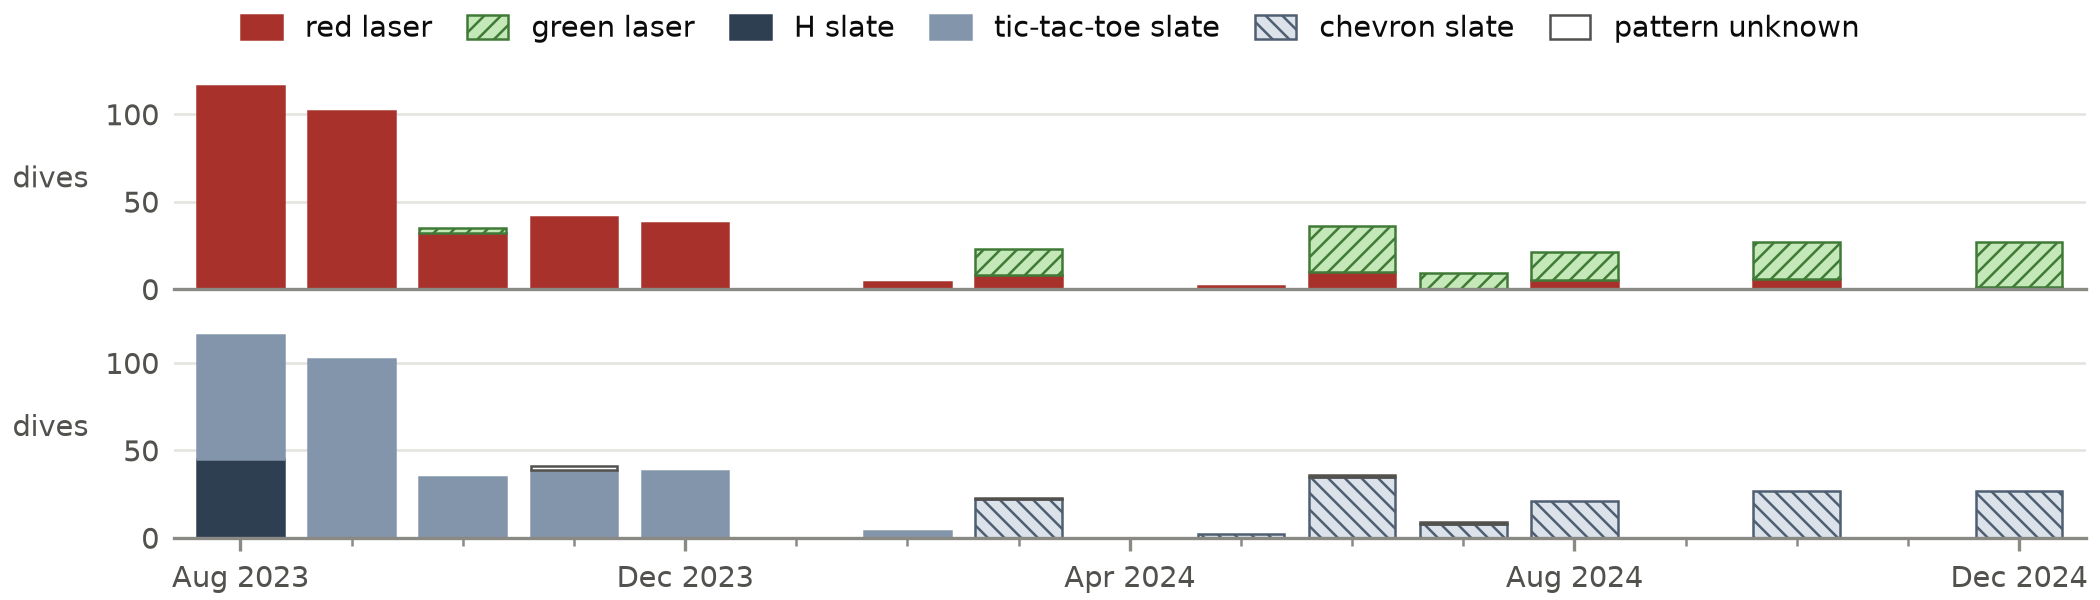
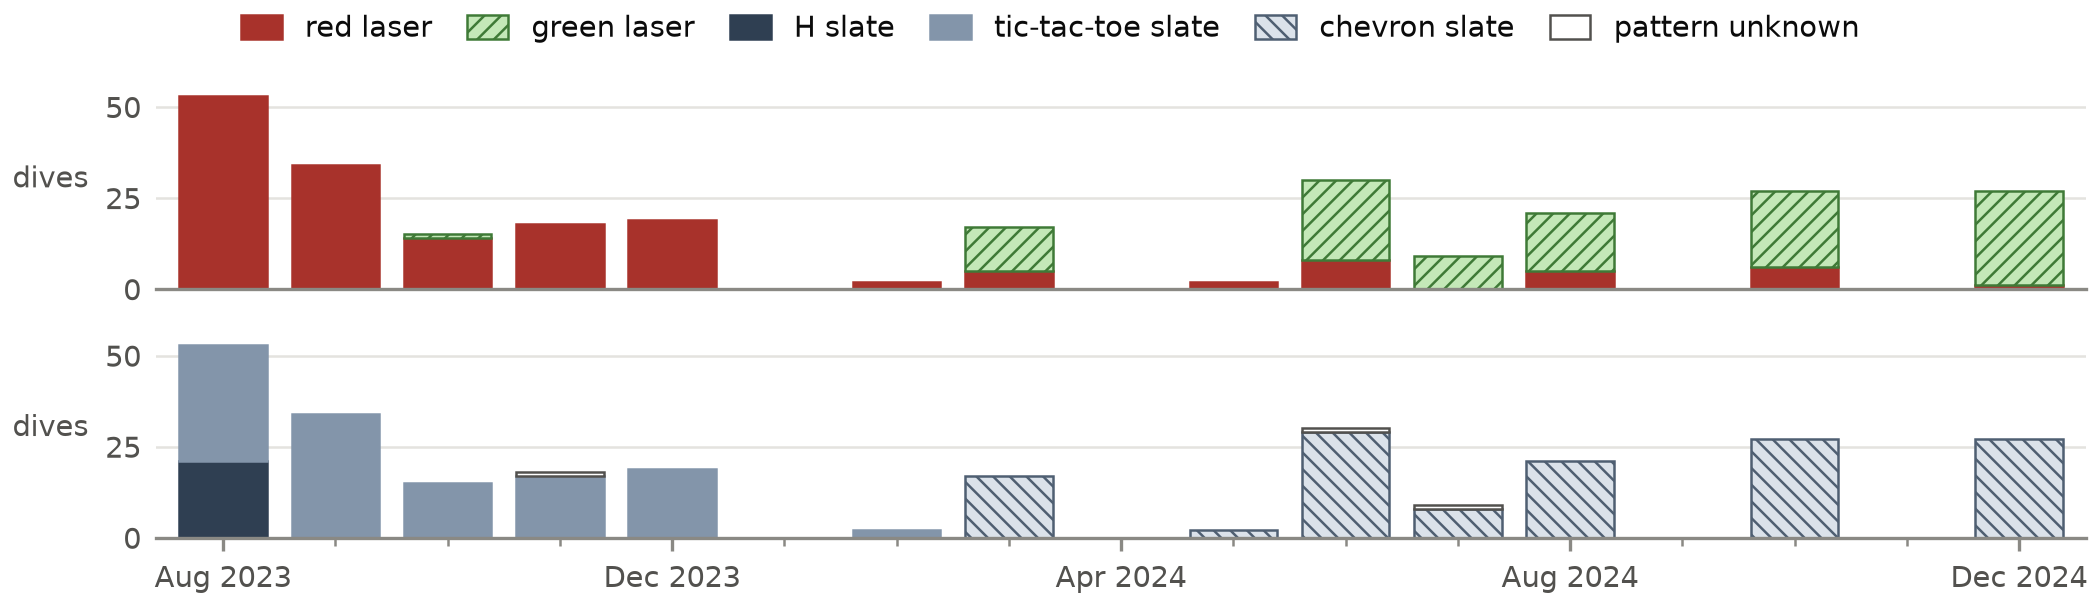
timeline: count each physical dive once (drop 207 re-imported records)
Records holding no canonical image are re-imports of the same card from a
later data dump: every image is a byte-identical copy of a canonical image
in another record. They still carry values to and from their sources, then
are dropped: 274 dives (red 167, green 107; H 21, tic-tac-toe 119,
chevron 131, unknown 3). Figure y-axis rescaled to 0..60.

diff --git a/analysis/codesign/fig_timeline.py b/analysis/codesign/fig_timeline.py
@@ -5,7 +5,8 @@ each month's bar has the same height in both panels and only the split differs.
   top     dives per month by laser color, red or green.
   bottom  dives per month by slate pattern: H, tic-tac-toe, chevron, or pattern unknown (outline only).
 Per dive (date, laser color, slate pattern, each with its source): analysis/codesign/timeline_dives.py, which
-documents every rule; 481 dives, the pool and test deployments excluded (the author, 2026-10-27). Laser color is
+documents every rule; 274 dives, each counted once (re-imported records dropped), the pool and test
+deployments excluded (the author, 2026-10-27). Laser color is
 from the dive's labels where it has them, else FishSense laser_colors (for 15 of 19 dives the unvalidated
 automatic dot color), else the dives whose images an imageless duplicate holds. Counts per month:
 analysis/codesign/results/timeline_counts_by_month.csv (timeline_counts.py).
@@ -42,7 +43,7 @@ RED, GREEN, GREEN_HATCH = "#a8322b", "#c4e8b8", "#3f7a37"
 SLATE = {"H": "#2f3f52", "tic-tac-toe": "#8395aa", "chevron": "#dbe2ea"}
 SLATE_HATCH = "#4f5f72"
 MONTHS = pd.period_range("2023-08", "2024-12", freq="M")
-BAR, YMAX = 0.78, 125
+BAR, YMAX = 0.78, 60
 DEUTAN = np.array([[0.367322, 0.860646, -0.227968], [0.280085, 0.672501, 0.047413], [-0.011820, 0.042940, 0.968881]])  # Machado 2009, severity 1
 
 LASER = {"red": dict(facecolor=RED, edgecolor=RED, lw=0.6),
@@ -84,7 +85,7 @@ def stack(ax, per, styles):
         v = per[k].to_numpy(float)
         ax.bar(pos[v > 0], v[v > 0], width=BAR, bottom=bottom[v > 0], zorder=2, **st)   # empty bars would still draw an outline
         bottom += v
-    ax.set_ylim(0, YMAX); ax.set_yticks([0, 50, 100])
+    ax.set_ylim(0, YMAX); ax.set_yticks([0, 25, 50])
     ax.set_ylabel("dives", rotation=0, ha="right", va="center", labelpad=4, color=INK2)
     ax.grid(axis="y", color=GRID, lw=0.6, zorder=1)
     for s in ("top", "right", "left"):

diff --git a/analysis/codesign/timeline_dives.py b/analysis/codesign/timeline_dives.py
@@ -3,6 +3,10 @@
 dives    all dives except FishSense deployments 2, 3 and 4 (data/fishsense_api/missions_lab.csv): the 2023-08-14 and
          2023-08-18 private-pool tests and the 2025-01-17 test session, 44 dives that are not field data (the
          author, 2026-10-27). No duplicate-image link crosses this boundary.
+         Each physical dive is counted once: the 207 remaining records that hold no canonical image are re-imports
+         of the same card from a later data dump (every image a byte-identical copy, same file name, capture time
+         and camera, of a canonical image in another record; dive 333 copies two cameras' records). They are used
+         to carry values to and from their source records, then dropped, leaving 274 dives (the author, 2026-10-27).
 
 date     the camera clock, except the six dives whose clock disagrees with their deployment by more than 14 days
          (252, 253, 336, 337, 451, 452; data/fishsense_api/missions_lab.csv), which take the deployment date.
@@ -96,4 +100,5 @@ def load():
     got = D.pattern.isna() & (D.dive_id != 333)
     fill = pd.Series([sib.get((c, d)) for c, d in zip(D.camera[got], day[got])], index=D.index[got], dtype=object).dropna()
     D.loc[fill.index, "pattern"], D.loc[fill.index, "pattern_source"] = fill, "same_camera_day"
-    return D
+    assert (D.images == 0).sum() == 207 and D.dive_id[D.images == 0].isin(dup.dive_id).all()
+    return D[D.images > 0].reset_index(drop=True)   # re-imported records: their images are counted in their source dives
